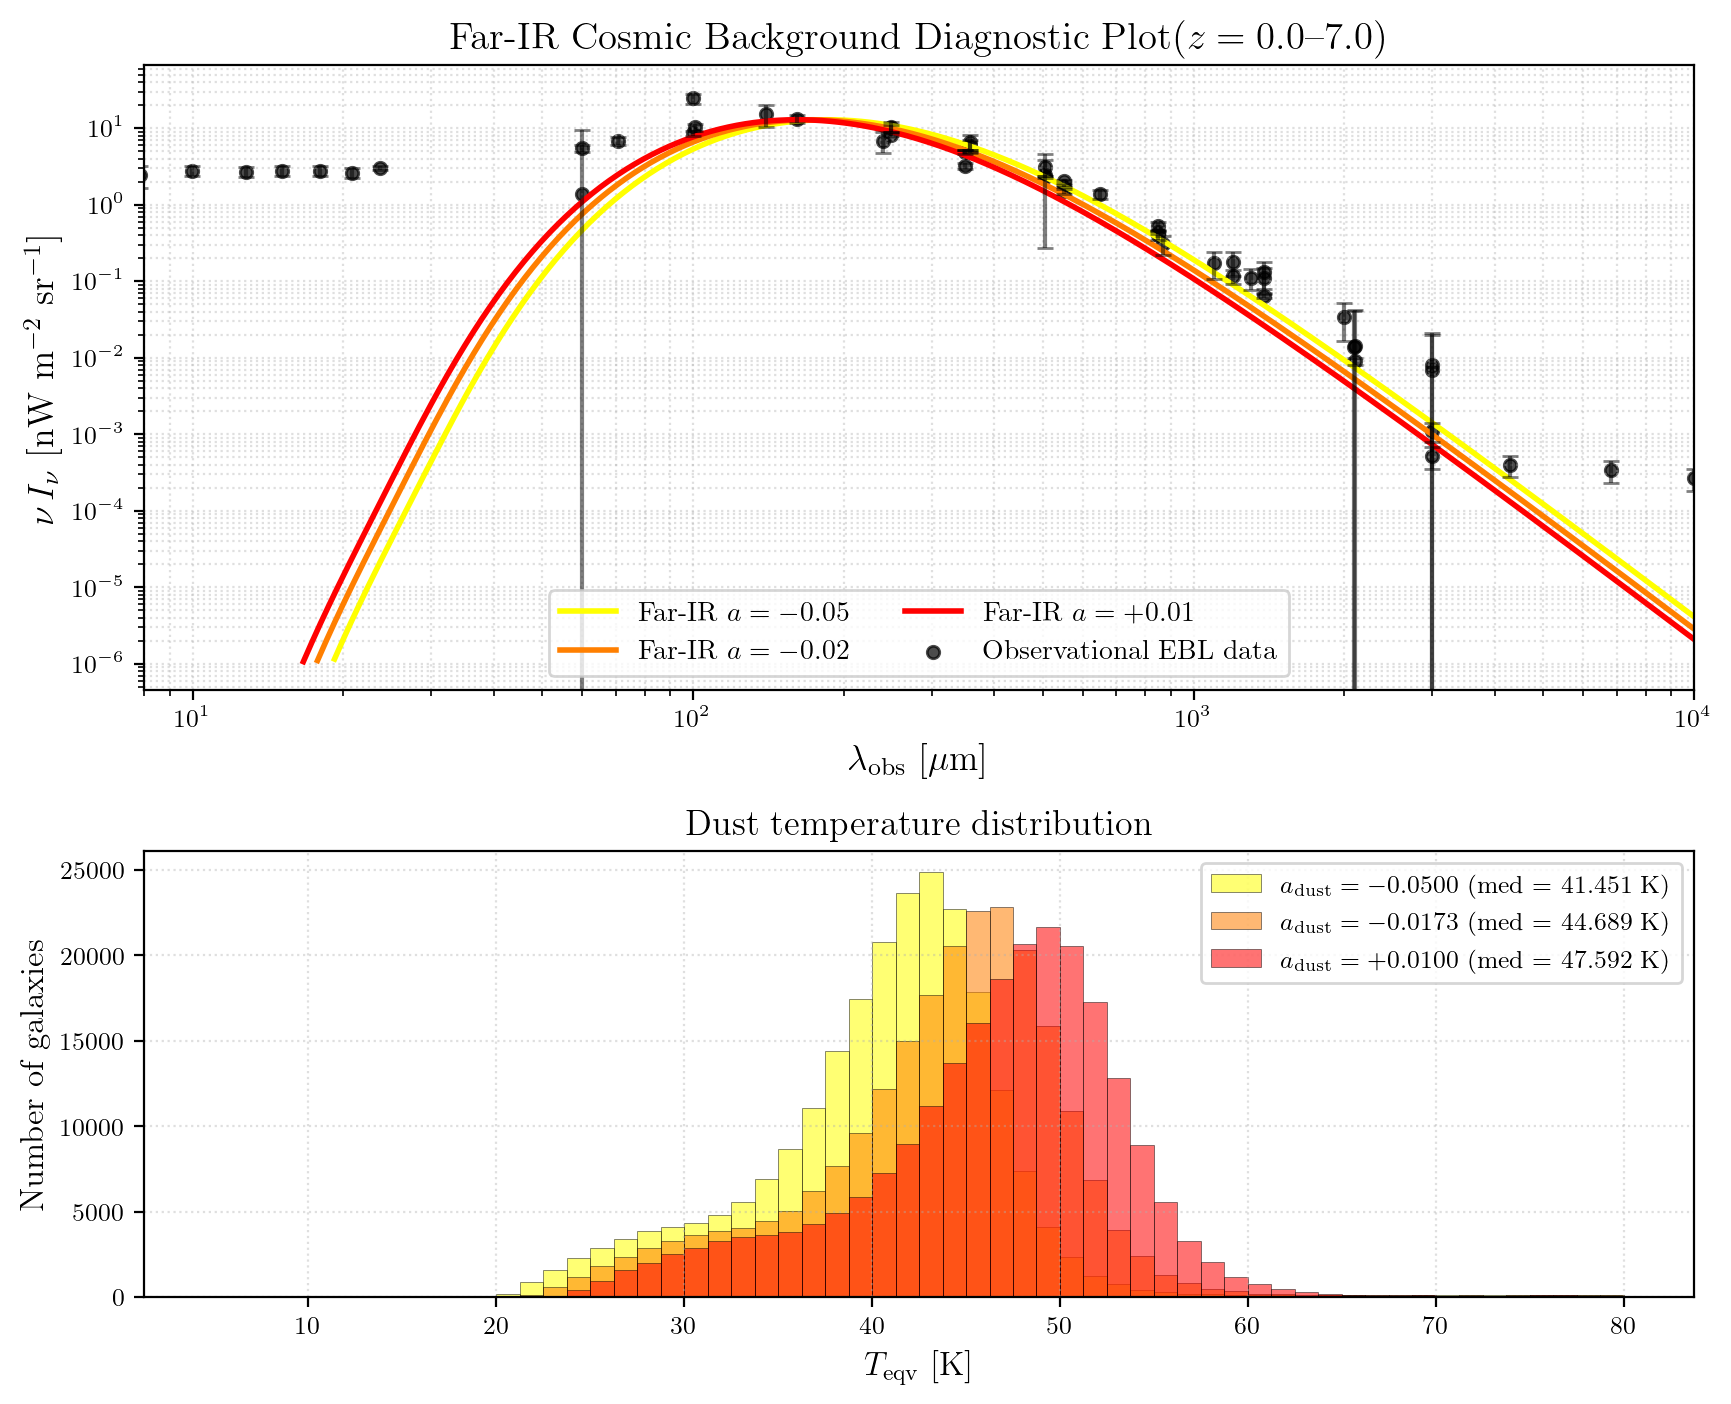
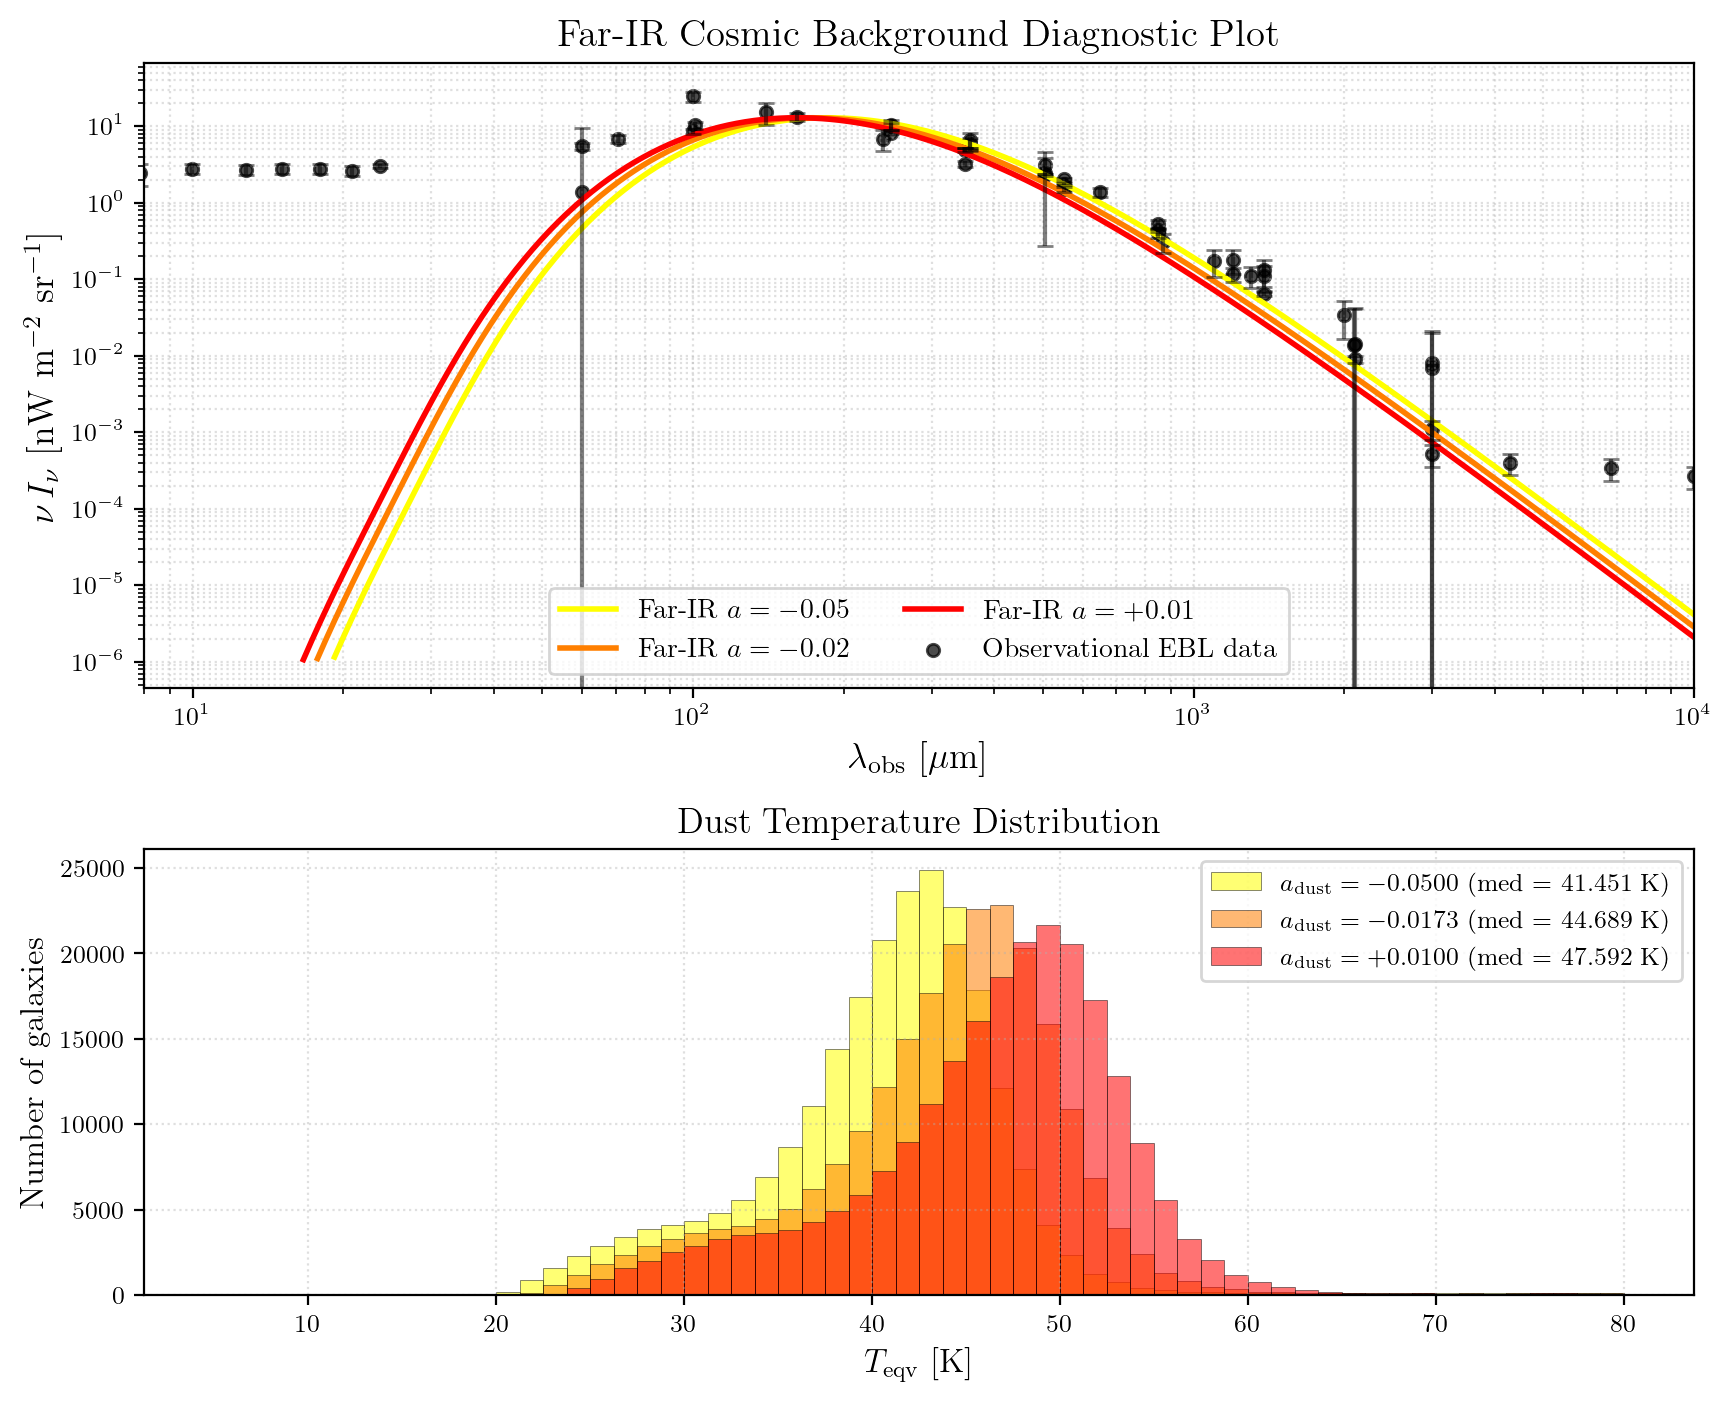
updated plots

diff --git a/scripts/plot_lightcone.py b/scripts/plot_lightcone.py
@@ -185,41 +185,10 @@ def load_appmag_v(data):
 
     return appmag_v
 
-def plot_lightcone_slice_appmag(data, app_mag, outpath, absmag_key="absmag.g"):
-    """
-    2D light-cone slice colored by apparent magnitude.
-    """
-    z = data["z"]
-    ra = data["ra"]
-    d_radial = cosmo.comoving_distance(z).to("Mpc").value
-    ra_centre = np.median(ra)
-    delta_ra_rad = np.deg2rad(ra - ra_centre)
-    d_transverse = delta_ra_rad * d_radial
-    y_lim = np.nanpercentile(np.abs(d_transverse), 99.5)
-
-    fig, ax = plt.subplots(figsize=(10, 6))
-    im = ax.scatter(
-        d_radial, d_transverse, s=0.5, alpha=0.6,
-        c=app_mag, cmap="viridis_r",  # reverse so bright = yellow
-        vmin=np.nanpercentile(app_mag, 1),
-        vmax=np.nanpercentile(app_mag, 99),
-        rasterized=True,
-    )
-    cb = fig.colorbar(im, ax=ax, pad=0.02)
-    cb.set_label(f"Apparent magnitude ({absmag_key})", fontsize=11)
-    ax.set_xlabel("Comoving radial distance [Mpc]", fontsize=11)
-    ax.set_ylabel("Comoving transverse distance [Mpc]", fontsize=11)
-    ax.set_ylim(-y_lim, y_lim)
-    ax.set_title("Galaxies colored by apparent magnitude", fontsize=12)
-    fig.tight_layout()
-    fig.savefig(outpath, dpi=200, bbox_inches="tight")
-    plt.close(fig)
-    print(f"Saved: {outpath}")
-
 with h5py.File(ROOT / "data" / "results" / "radio_flux_1p4GHz_m100n1024.h5", "r") as f:
     radio_flux = f["flux_total"][:]
 
-def plot_three_panel_wedge_with_radio(data, appmag_v, lfir, radio_flux, outpath, random_seed=42, max_points=240000):
+def plot_three_panel_wedge_with_radio(data, appmag_v, lfir, radio_flux, outpath, random_seed=42, max_points=240883):
     """
     Three-panel wedge diagram for the SIMBA light cone.
     Panel 1: v-band apparent magnitude (optical)
@@ -275,7 +244,7 @@ def plot_three_panel_wedge_with_radio(data, appmag_v, lfir, radio_flux, outpath,
             "cmap": "viridis_r",
             "vmin": vmin_v,
             "vmax": vmax_v,
-            "label": "v-band apparent magnitude",
+            "label": r"$m_V$",
             "panel_label": "(a)"
         },
         {
@@ -291,8 +260,7 @@ def plot_three_panel_wedge_with_radio(data, appmag_v, lfir, radio_flux, outpath,
             "cmap": "plasma",
             "vmin": vmin_radio,
             "vmax": vmax_radio,
-            "label": r"$\log_{10}($Radio flux at 1.4 GHz$)$ [erg s$^{-1}$ cm$^{-2}$ Hz$^{-1}$]",
-            "panel_label": "(c)"
+            "label": r"$\log_{10}(S_{1.4\,\mathrm{GHz}})\ \mathrm{[erg\,s^{-1}\,cm^{-2}\,Hz^{-1}]}$",            "panel_label": "(c)"
         }
     ]
 
@@ -310,14 +278,42 @@ def plot_three_panel_wedge_with_radio(data, appmag_v, lfir, radio_flux, outpath,
         ax.text(0.01, 0.95, panels[i]["panel_label"], transform=ax.transAxes,
                 fontsize=14, fontweight="bold", va="top", ha="left")
         if i == 2:
-            ax.set_xlabel("Comoving radial distance [Mpc]", fontsize=12)
+            ax.set_xlabel("Comoving Radial Distance [Mpc]", fontsize=12)
         if i == 1:
-            ax.set_ylabel("Comoving transverse distance [Mpc]", fontsize=12)
+            ax.set_ylabel("Comoving Transverse Distance [Mpc]", fontsize=12)
     fig.suptitle(
-        f"SIMBA Light Cone Coloured Wedges — $N_\\text{{gal}} = {n_gal:,}$",
-    fontsize=16, y=0.94
+        f"SIMBA Light Cone Coloured Wedges",
+    fontsize=16, y=0.90
 )
-    fig.tight_layout(rect=[0, 0, 1, 0.94])
+# ── Redshift Axis Placement ─────────────────────────────────────────
+    # Target the top panel so the redshift axis frames the entire figure
+    ax_top_panel = axes[0]
+    x_min, x_max = axes[-1].get_xlim()
+    
+    # Choose redshift ticks (e.g., z = 0, 1, 2, 3, 4, 5, 6, 7)
+    z_ticks = np.arange(0, 8, 1)
+    d_ticks = cosmo.comoving_distance(z_ticks).to("Mpc").value
+    
+    # Only keep ticks within the current x-limits
+    mask = (d_ticks >= x_min) & (d_ticks <= x_max)
+    z_ticks = z_ticks[mask]
+    d_ticks = d_ticks[mask]
+    
+    # Add the twin axis
+    ax_z = ax_top_panel.twiny()
+    ax_z.set_xlim(x_min, x_max)
+    ax_z.set_xticks(d_ticks)
+    ax_z.set_xticklabels([f"{z:.0f}" for z in z_ticks])
+    ax_z.set_xlabel(r"Redshift $z$", fontsize=12, labelpad=2)
+
+    # ── Final Layout Adjustments ────────────────────────────────────────
+    # Run tight_layout first to handle the internal panel spacing
+    fig.tight_layout()
+    
+    # Adjust the top margin manually to leave room for the twin axis and the suptitle
+    fig.subplots_adjust(top=0.88)
+    fig.suptitle("SIMBA Light Cone Coloured Wedges", fontsize=16, y=0.96)
+    
     fig.savefig(outpath, dpi=200, bbox_inches="tight")
     plt.close(fig)
     print(f"Saved: {outpath}")

diff --git a/scripts/plot_ebl.py b/scripts/plot_ebl.py
@@ -252,9 +252,9 @@ def _obs_scatter(ax, df):
         ax.errorbar(
             sub["lam_um"], sub["nuInu_nW"],
             yerr=sub["err_nW"] if has_err else None,
-            fmt=markers[i % len(markers)], color=cmap(i),
-            ms=5, lw=1.0, capsize=2, label=inst,
-            zorder=5, alpha=0.85,
+            fmt=markers[i % len(markers)], color='k', alpha = 0.7, ecolor='k',
+            ms=5, lw=1.0, capsize=2, label='Observational EBL Data',
+            zorder=5,
         )
 
 
@@ -295,7 +295,7 @@ def plot_full_ebl(ebl: dict, jk: dict, obs: pd.DataFrame,
     
     ax.set_xlabel(r"$\lambda_{\rm obs}\ [\mu\mathrm{m}]$")
     ax.set_ylabel(r"$\nu I_\nu\ [\mathrm{nW\,m^{-2}\,sr^{-1}}]$")
-    ax.set_title("SIMBA extragalactic background light  ($z = 0$–$7$)",
+    ax.set_title("SIMBA Extragalactic Background Light",
                  pad=8)
 
     ax.legend(loc="upper right", framealpha=0.9, edgecolor="0.8",
@@ -332,7 +332,7 @@ def plot_redshift_binned_ebl(jk_paths, obs, save_dir):
     ]
 
     fig, axes = plt.subplots(3, 1, figsize=(9, 13), sharex=True)
-    fig.suptitle("SIMBA extragalactic background light by redshift bin", fontsize=14, y=0.99)
+    fig.suptitle("SIMBA Extragalactic Background Light by Redshift Bin", fontsize=14, y=0.99)
 
     for i, (jk_path, label, colors) in enumerate(zip(jk_paths, bin_labels, bin_colors)):
         jk = load_jackknife(jk_path)

diff --git a/scripts/run_diagnostic.py b/scripts/run_diagnostic.py
@@ -132,8 +132,7 @@ def main():
     ax_sed.set_xscale("log")
     ax_sed.set_yscale("log")
 
-    ax_sed.set_title(f'Far-IR Cosmic Background Diagnostic Plot'
-                     f'($z = {args.z_min}$–${args.z_max}$)', fontsize=14)
+    ax_sed.set_title(f'Far-IR Cosmic Background Diagnostic Plot', fontsize=14)
     ax_sed.legend(fontsize=10, ncol=2)
     ax_sed.grid(True, which='both', ls=':', alpha=0.4)
     ax_sed.set_xlim(8, 1e4)  # ~8 µm to 10 mm
@@ -149,7 +148,7 @@ def main():
                            f'  (med = {np.nanmedian(temps):.3f} K)')
     ax_hist.set_xlabel(r'$T_{\rm eqv}$ [K]', fontsize=12)
     ax_hist.set_ylabel('Number of galaxies', fontsize=12)
-    ax_hist.set_title('Dust temperature distribution', fontsize=13)
+    ax_hist.set_title('Dust Temperature Distribution', fontsize=13)
     ax_hist.legend(fontsize=9)
     ax_hist.grid(True, ls=':', alpha=0.4)
 
